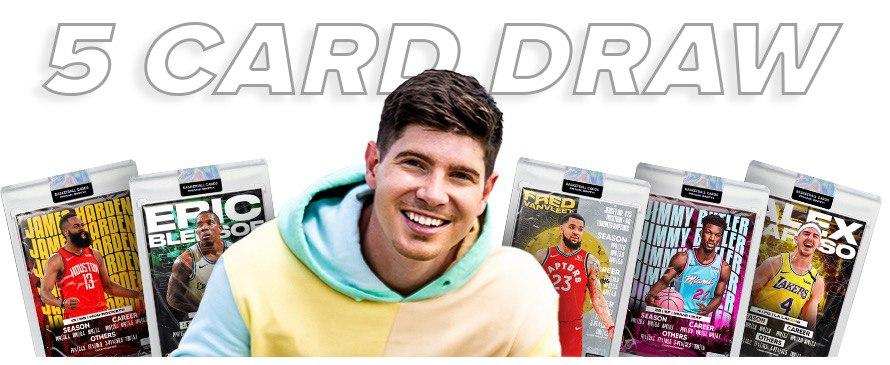
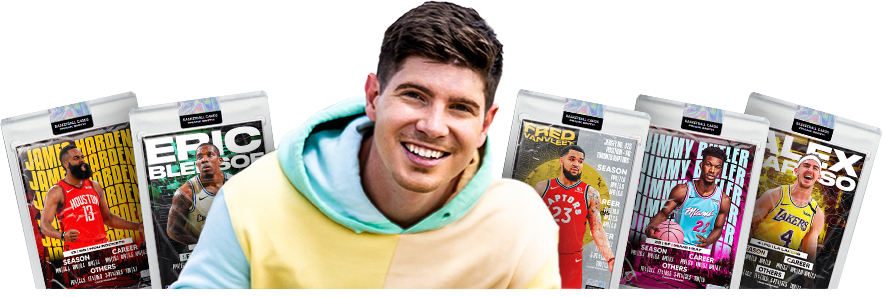
login preview

diff --git a/src/js/components/LoginPreview.js b/src/js/components/LoginPreview.js
@@ -1,34 +1,43 @@
 import React from "react";
-import anime from "animejs";
+// import anime from "animejs";
 import Anime from "@mollycule/react-anime";
 
-import SplitText from "./SplitText";
-import preview from "img/preview.png";
+// import SplitText from "./SplitText";
+import preview from "img/preview2.png";
 
 
-const delay = 400;
+const delay = 600;
 
 export default ({ text }) => {
     return (
         <div className="login-preview-wrapper">
-            <div className="login-preview">
-                <img src={preview} alt="preview"/>
-            </div>
+            <Anime
+                in
+                duration={1200}
+                appear
+                onEntering={{
+                    opacity: [0, 1],
+                    delay: delay,
+                    easing: "easeOutExpo"
+                }}>
+                <div className="login-preview">
+                    <img className="login-preview-img" src={preview} alt="preview"/>
+                </div>
+            </Anime>
 
-            <div className="login-preview-label center-text">
-                <SplitText
-                    text={text}
-                    duration={900}
-                    onEnterAnimation={{
-                        opacity: [0, 1],
-                        translateX: [-140, 0],
-                        scale: [1.2, 1],
-                        rotateY: [-210, 0],
-                        rotateZ: [-90, 0],
-                        easing: 'easeOutElastic(1, 0.6)',
-                        delay: anime.stagger(80, {start: delay})
-                    }} />
-            </div>
+            <Anime
+                in
+                duration={800}
+                appear
+                onEntering={{
+                    opacity: [0, 1],
+                    translateX: [270, 0],
+                    delay: delay
+                }}>
+                <div className="login-preview-label center-text">
+                    {text}
+                </div>
+            </Anime>
         </div>
     )
 };

diff --git a/src/css/components/_login_page.scss b/src/css/components/_login_page.scss
@@ -1,12 +1,20 @@
 @import "../deps";
 
 
+// SIZE
+$preview_w: 890;
+$preview_h: 365;
+
+
 // head
 .head-label-wrapper {
   background-color: $white;
-  @include vpad(3px);
+  @include vpad(4px, 3px);
   @include for-tablet-portrait-up() {
     margin-top: 20px;
+  }
+  @include for-tablet-landscape-up() {
+    padding-top: 5px;
   }
 
   .head-label {
@@ -18,7 +26,7 @@
       font-size: rem(20);
     }
     @include for-tablet-landscape-up() {
-      font-size: rem(24);
+      font-size: rem(26);
     }
   }
 }
@@ -27,34 +35,57 @@
 .login-form-wrapper {
 
   .login-preview-wrapper {
-    max-width: 680px;
+    max-width: 420px;
     margin-left: auto;
     margin-right: auto;
 
     margin-top: 30px;
     @include for-tablet-portrait-up() {
       margin-top: 40px;
+      max-width: 540px;
     }
     @include for-tablet-landscape-up() {
       margin-top: 60px;
+      max-width: 660px;
     }
 
     .login-preview {
+      overflow: hidden;
+      position: relative;
+      border-radius: 16px 16px 3px 8px;
+      padding-top: #{100% * ($preview_h / $preview_w)};
 
+      .login-preview-img {
+        width: 100%;
+        height: 100%;
+        object-fit: cover;
+        position: absolute;
+        top: 0;
+        right: 0;
+        bottom: 0;
+        left: 0;
+        user-select: none;
+        transform: translateZ(0); // fix chrome img blurry
+      }
     }
 
     .login-preview-label {
-      margin: 20px 0 30px;
+      margin: 15px 0 25px;
       font-weight: bold;
       font-size: rem(16);
       transform-style: preserve-3d;
+      line-height: 1.5;
 
-      @include for-tablet-portrait-up() {
+      @include media_interval(420px, 0) {
+        white-space: pre;
         font-size: rem(18);
-        margin: 30px 0 40px;
+      }
+      @include for-tablet-portrait-up() {
+        font-size: rem(22);
+        margin: 20px auto 35px;
       }
       @include for-tablet-landscape-up() {
-        font-size: rem(20);
+        font-size: rem(28);
       }
     }
   }

diff --git a/src/js/containers/LoginPage.js b/src/js/containers/LoginPage.js
@@ -23,9 +23,8 @@ const LoginPage = (props) => {
                     <div className="login-form-wrapper">
                         <div className="container">
                             <LoginPreview
-                                text="Free to enter. Winner receives a shoutout,
-                                tag and a chance at a free hoodie!" />
-
+                                text={"Free to enter. Winner receives a shoutout,\n" +
+                                "tag and a chance at a free hoodie!"} />
                             <LoginForm next={next} />
                         </div>
                     </div>

diff --git a/src/js/components/ThanksText.js b/src/js/components/ThanksText.js
@@ -19,7 +19,6 @@ const ThanksText = (props) => {
                 {props.children}
             </div>
         </Anime>
-
     )
 };
 
